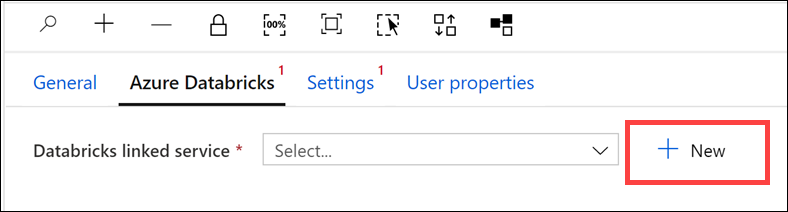
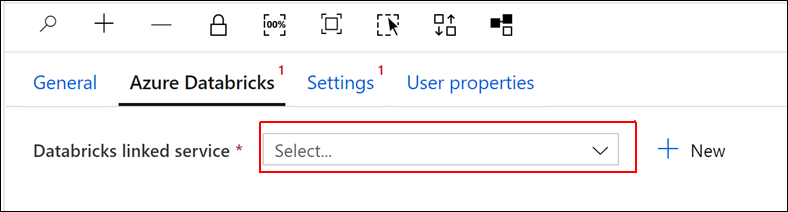
update - remove integration runtime

Changed region(s): [[0.3046, 0.566, 0.9746, 0.8774]]

diff --git a/HOL06-MDW-small/HOL step-by-step - Big data and visualization.md b/HOL06-MDW-small/HOL step-by-step - Big data and visualization.md
@@ -43,8 +43,7 @@ Microsoft and the trademarks listed at https://www.microsoft.com/en-us/legal/int
     - [Task 2: Open Azure Databricks and complete lab notebooks](#task-3-open-azure-databricks-and-complete-lab-notebooks)
   - [Exercise 3: Setup Azure Data Factory](#exercise-3-setup-azure-data-factory)
     - [Task 1: Download and stage data to be processed](#task-1-download-and-stage-data-to-be-processed)
-    - [Task 2: Install and configure Azure Data Factory Integration Runtime on your machine](#task-2-install-and-configure-azure-data-factory-integration-runtime-on-your-machine)
-    - [Task 3: Configure Azure Data Factory](#task-3-configure-azure-data-factory)
+    - [Task 2: Configure Azure Data Factory](#task-2-configure-azure-data-factory)
   - [Exercise 4: Develop a data factory pipeline for data movement](#exercise-4-develop-a-data-factory-pipeline-for-data-movement)
     - [Task 1: Create copy pipeline using the Copy Data Wizard](#task-1-create-copy-pipeline-using-the-copy-data-wizard)
   - [Exercise 5: Operationalize ML scoring with Azure Databricks and Data Factory](#exercise-5-operationalize-ml-scoring-with-azure-databricks-and-data-factory)
@@ -250,41 +249,7 @@ In this exercise, you will create a baseline environment for Azure Data Factory 
 
 3. Extract it to a new folder called **C:\\Data**.
 
-### Task 2: Install and configure Azure Data Factory Integration Runtime on your machine
-
-1. To download the latest version of Azure Data Factory Integration Runtime, go to <https://www.microsoft.com/en-us/download/details.aspx?id=39717>.
-
-2. Select Download, then choose the download you want from the next screen.
-
-   ![Under Choose the download you want, the latest version MSI file is selected.](media/download-ir.png 'Choose the download you want section')
-
-3. Run the installer, once downloaded.
-
-4. When you see the following screen, select Next.
-
-   ![The Welcome page in the Microsoft Integration Runtime Setup Wizard displays. A language drop down list is shown and the Next button is selected.](media/image114.png 'Microsoft Integration Runtime Setup Wizard')
-
-5. Check the box to accept the terms and select Next.
-
-   ![On the End-User License Agreement page, the check box to accept the license agreement is selected, as is the Next button.](media/image115.png 'End-User License Agreement page')
-
-6. Accept the default Destination Folder, and select Next.
-
-   ![On the Destination folder page, the destination folder is set to C:\Program Files\Microsoft Integration Runtime\ and the Next button is selected.](media/image116.png 'Destination folder page')
-
-7. Choose Install to complete the installation.
-
-   ![On the Ready to install Microsoft Integration Runtime page, the Install button is selected.](media/image117.png 'Ready to install page')
-
-8. Select Finish once the installation has completed.
-
-   ![On the Completed the Microsoft Integration Runtime Setup Wizard page, the Finish button is selected.](media/image118.png 'Completed the Wizard page')
-
-9. After selecting Finish, the following screen will appear. Keep it open for now. You will come back to this screen once the Data Factory in Azure has been provisioned, and obtain the gateway key so we can connect Data Factory to this "on-premises" server.
-
-   ![The Microsoft Integration Runtime Configuration Manager, Register Integration Runtime dialog displays.](media/image119.png 'Register Integration Runtime page')
-
-### Task 3: Configure Azure Data Factory
+### Task 2: Configure Azure Data Factory
 
 1. Launch a new browser window, and navigate to the Azure portal (<https://portal.azure.com>). Once prompted, log in with your Microsoft Azure credentials. If prompted, choose whether your account is an organization account or a Microsoft account. This will be based on which account was used to provision your Azure subscription that is being used for this lab.
 
@@ -300,53 +265,43 @@ In this exercise, you will create a baseline environment for Azure Data Factory 
 
    ![In the left menu, the Manage icon is selected.](media/adf-home-manage-link.png 'Manage link on ADF home page')
 
-6. Now, select **Integration runtimes** in the menu beneath Connections (1), then select **+ New** (2).
+6. Now, select **Linked Services** in the menu beneath Connections (1), then select **+ New** (2). On the New Linked Service dialog, enter the following:
 
-   ![The Integration runtimes menu item is selected selected, and the + New button is selected.](media/adf-new-ir.png 'Steps to create a new Integration Runtime connection')
+   - **Name**: `AzureDatabricks`
+  
+   - **Connect via integration runtime**: Leave set to Default.
+  
+   - **Account selection method**: **From Azure subscription**
+  
+   - **Azure subscription**: Choose your Azure Subscription.
+  
+   - **Databricks workspace**: Pick your Databricks workspace to populate the Domain automatically.
+  
+   - **Select cluster**: **Existing interactive cluster**
 
-7. In the Integration Runtime Setup blade that appears, select **Azure, Self-Hosted**, then select **Continue**.
+   ![The New linked service form is shown populated with the previously listed values.](media/adf-ml-databricks-service-settings.png 'Databricks Linked Service settings')
 
-   ![In the Integration runtime setup options, select Azure, Self-Hosted. Perform data flows, data movement, and dispatch activities to external compute.The Continue button is selected.](media/adf-ir-setup-1.png 'Integration Runtime Setup step 1')
+7. Leave the form open and open your Azure Databricks workspace in another browser tab. You will generate and retrieve the Access token here.
 
-8. Select **Self-Hosted** then select **Continue**.
+8. In Azure Databricks, select the Account icon in the top corner of the window, then select **User Settings**.
 
-   ![In the Network environment selected, Self-Hosted is selected and the Continue button is highlighted.](media/adf-ir-setup-2.png 'Integration Runtime Setup step 2')
+   ![The Account icon is selected in Azure Databricks. User Settings is selected from the list of Account options.](media/databricks-select-user-settings.png 'Azure Databricks user account settings')
 
-9. Enter a **Name**, such as bigdatagateway-\[initials\], and select **Create**.
+9. Select **Generate New Token** under the Access Tokens tab. Enter **ADF access** for the comment and leave the lifetime at 90 days. Select **Generate**.
 
-   ![In the Integration runtime setup form, the Name textbox is populated with the value defined above.](media/adf-ir-setup-3.png 'Integration Runtime Setup step 3')
+   ![The Generate New Token modal is shown with the previously specified values.](media/databricks-generate-new-token.png 'Generate New Token')
 
-10. Under Option 2: Manual setup, copy the Key1 authentication key value by selecting the Copy button, then select **Close**.
+10. **Copy** the generated token and **paste it into a text editor** such as Notepad for a later step.
 
-    ![Beneath Option 2: Manual setup, the Key 1 textbox and copy button are highlighted.](media/adf-ir-setup-4.png 'Integration Runtime Setup step 4')
+    ![Copy the generated token.](media/databricks-copy-token.png 'Copy generated token')
 
-11. _Don't close the current screen or browser session_.
+11. Switch back to your Azure Data Factory screen and paste the generated token into the **Access token** field within the form. After a moment, select your cluster underneath **Choose from existing clusters**. Select **Create**.
 
-12. Paste the **Key1** value into the box in the middle of the Microsoft Integration Runtime Configuration Manager screen.
+    ![In the New linked service form, the access token is pasted into the Access Token field and the Azure Databricks Cluster (lab) is selected.](media/adf-ml-access-token.png 'Paste access token')
 
-    ![The Microsoft Integration Runtime Configuration Manager Register Integration Runtime page displays with the Key1 value pasted into the textbox. A green checkmark next to the textbox denotes it's a valid key.](media/image127.png 'Microsoft Integration Runtime Configuration Manager')
+12. Switch back to Azure Databricks. Select **Workspace** in the menu. Select the **Exercise 5** folder then open notebook **01 Deploy for Batch Scoring**. Examine the content but _don't run any of the cells yet_. You need to **replace `STORAGE-ACCOUNT-NAME`** with the name of the blob storage account you copied in Exercise 1 into Cmd 4.
 
-13. Select **Register**.
-
-14. It can take up to a minute or two to register. If it takes more than a couple of minutes, and the screen does not respond or returns an error message, close the screen by selecting the **Cancel** button.
-
-15. The next screen will be New Integration Runtime (Self-hosted) Node. Select Finish.
-
-    ![The Microsoft Integration Runtime Configuration Manager New Integration Runtime (Self-hosted) Node page displays with a Finish button.](media/adf-ir-self-hosted-node.png 'Microsoft Integration Runtime Configuration Manager')
-
-16. You will then get a screen with a confirmation message. Select the **Launch Configuration Manager** button to view the connection details.
-
-    ![The Microsoft Integration Runtime Configuration Manager Indicates the Integration Runtime (Self-hosted) node has been successfully registered. The Launch Configuration Manager button is highlighted.](media/adf-ir-launch-config-manager.png 'Microsoft Integration Runtime Configuration Manager')
-
-    ![The Microsoft Integration Runtime Configuration Manager indicates the Self-hosted note is connected to the cloud service.](media/adf-ir-config-manager.png 'Microsoft Integration Runtime Configuration Manager')
-
-17. You can now return to the Azure Data Factory page, and view the Integration Runtime you just configured. You may need to select **Refresh** to view the Running status for the IR.
-
-    ![In the Connections tab in Azure Data Factory, the Integration runtimes tab is selected and the integration runtime bigdatagateway-initials is shown in the list.](media/adf-ir-running.png 'Integration Runtime in running state')
-
-18. Select the Azure Data Factory Overview button on the menu. Leave this open for the next exercise.
-
-    ![The Azure Data Factory Overview button is selected from the left menu.](media/adf-overview.png 'ADF Overview')
+    ![In the Azure Databricks workspaces, beneath BigDataVis, the Exercise 5 folder is selected. Beneath Exercise 5 the 01 Deploy for Batch Score notebook is selected.](media/databricks-workspace-create-folder.png 'Create folder')
 
 ## Exercise 4: Develop a data factory pipeline for data movement
 
@@ -520,47 +475,9 @@ In this exercise, you will extend the Data Factory to operationalize the scoring
 
    ![BatchScore is entered into the Name textbox under the General tab.](media/adf-ml-notebook-general.png 'Databricks Notebook General Tab')
 
-5. Select the **Azure Databricks** tab, and select **+ New** next to the Databricks Linked service drop down. Here, you will configure a new linked service which will serve as the connection to your Databricks cluster.
+5. Select the **Azure Databricks** tab, and select the Databricks linked service created before from the dropdown menu.
 
    ![In the Azure Databricks tab, the + New button is selected next to the Databricks Linked Service textbox.](media/adf-ml-settings-new-link.png 'Databricks Notebook Settings Tab')
-
-6. On the New Linked Service dialog, enter the following:
-
-   - **Name**: `AzureDatabricks`
-  
-   - **Connect via integration runtime**: Leave set to Default.
-  
-   - **Account selection method**: **From Azure subscription**
-  
-   - **Azure subscription**: Choose your Azure Subscription.
-  
-   - **Databricks workspace**: Pick your Databricks workspace to populate the Domain automatically.
-  
-   - **Select cluster**: **Existing interactive cluster**
-
-   ![The New linked service form is shown populated with the previously listed values.](media/adf-ml-databricks-service-settings.png 'Databricks Linked Service settings')
-
-7. Leave the form open and open your Azure Databricks workspace in another browser tab. You will generate and retrieve the Access token here.
-
-8. In Azure Databricks, select the Account icon in the top corner of the window, then select **User Settings**.
-
-   ![The Account icon is selected in Azure Databricks. User Settings is selected from the list of Account options.](media/databricks-select-user-settings.png 'Azure Databricks user account settings')
-
-9. Select **Generate New Token** under the Access Tokens tab. Enter **ADF access** for the comment and leave the lifetime at 90 days. Select **Generate**.
-
-   ![The Generate New Token modal is shown with the previously specified values.](media/databricks-generate-new-token.png 'Generate New Token')
-
-10. **Copy** the generated token and **paste it into a text editor** such as Notepad for a later step.
-
-    ![Copy the generated token.](media/databricks-copy-token.png 'Copy generated token')
-
-11. Switch back to your Azure Data Factory screen and paste the generated token into the **Access token** field within the form. After a moment, select your cluster underneath **Choose from existing clusters**. Select **Create**.
-
-    ![In the New linked service form, the access token is pasted into the Access Token field and the Azure Databricks Cluster (lab) is selected.](media/adf-ml-access-token.png 'Paste access token')
-
-12. Switch back to Azure Databricks. Select **Workspace** in the menu. Select the **Exercise 5** folder then open notebook **01 Deploy for Batch Scoring**. Examine the content but _don't run any of the cells yet_. You need to **replace `STORAGE-ACCOUNT-NAME`** with the name of the blob storage account you copied in Exercise 1 into Cmd 4.
-
-    ![In the Azure Databricks workspaces, beneath BigDataVis, the Exercise 5 folder is selected. Beneath Exercise 5 the 01 Deploy for Batch Score notebook is selected.](media/databricks-workspace-create-folder.png 'Create folder')
 
 13. Switch back to your Azure Data Factory screen. Select the **Settings** tab, then browse to your **Exercise 5/01 Deploy for Batch Score** notebook into the Notebook path field.
 
